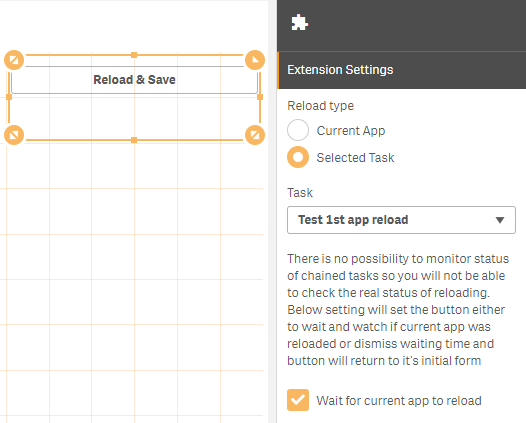
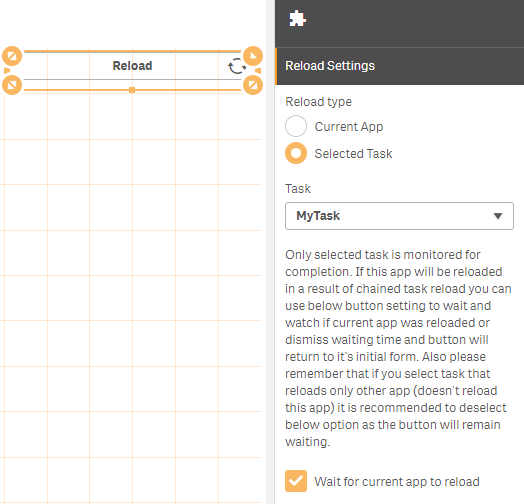
Initial GitHub commit

diff --git a/src/propertiesPanel.js b/src/propertiesPanel.js
@@ -74,14 +74,14 @@ define(["./utils"], function (utils) {
                         },
                         defaultValue: "",
                         show: function (data) {
-                            return !data.props.isDesktop;
+                            return !data.props.isDesktop && data.props.reloadType==="task";
                         },
                     },
                     waitDescription: {
                         component: "text",
-                        label: "There is no possibility to monitor status of chained tasks so you will not be able to check the real status of reloading. Below setting will set the button either to wait and watch if current app was reloaded or dismiss waiting time and button will return to it's initial form",
+                        label: "Only selected task is monitored for completion. If this app will be reloaded in a result of chained task reload you can use below button setting to wait and watch if current app was reloaded or dismiss waiting time and button will return to it's initial form. Also please remember that if you select task that reloads only other app (doesn't reload this app) it is recommended to deselect below option as the button will remain waiting.",
                         show: function (data) {
-                            return !data.props.isDesktop;
+                            return !data.props.isDesktop && data.props.reloadType==="task";
                         }
                     },
                     waitAppReload: {
@@ -90,7 +90,7 @@ define(["./utils"], function (utils) {
                         ref: "props.waitAppReload",
                         defaultValue: true,
                         show: function (data) {
-                            return !data.props.isDesktop;
+                            return !data.props.isDesktop && data.props.reloadType==="task";
                         }
                     }
                 }
